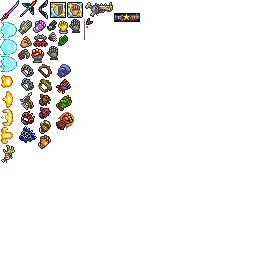
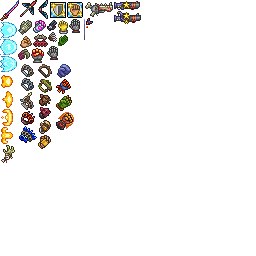
Add startillery

Changed region(s): [[0.4375, 0.0, 0.5625, 0.0938]]

diff --git a/Items/Weapons/Startillery.cs b/Items/Weapons/Startillery.cs
@@ -1,0 +1,78 @@
+using Microsoft.Xna.Framework;
+using Terraria;
+using Terraria.ID;
+using Terraria.ModLoader;
+using System;
+using System.Collections.Generic;
+
+namespace WeaponOut.Items.Weapons
+{
+    /// <summary>
+    /// Star cannon converion for the frugal
+    /// </summary>
+    public class Startillery : ModItem
+    {
+        public override bool Autoload(ref string name, ref string texture, IList<EquipType> equips)
+        {
+            return ModConf.enableBasicContent;
+        }
+
+        public const int penetrateBonus = 4;
+
+        public override void SetDefaults()
+        {
+            item.CloneDefaults(ItemID.StarCannon);
+            item.name = "Startillery";
+            item.damage = 250;
+            item.useTime = 80;
+            item.useAnimation = 81;
+            item.UseSound = SoundID.Item33;
+            item.shootSpeed += 10f;
+        }
+        public override void AddRecipes()
+        {
+            //Conversion to, should be expensive enough to dissuade replacement as reforging
+            ModRecipe recipe = new ModRecipe(mod);
+            recipe.AddIngredient(ItemID.StarCannon, 1);
+            recipe.AddIngredient(ItemID.IllegalGunParts, 1);
+            recipe.AddTile(TileID.Anvils);
+            recipe.SetResult(this);
+            recipe.AddRecipe();
+            //Conversion from
+            recipe = new ModRecipe(mod);
+            recipe.AddIngredient(this, 1);
+            recipe.AddIngredient(ItemID.FallenStar, 10);
+            recipe.AddTile(TileID.Anvils);
+            recipe.SetResult(ItemID.StarCannon);
+            recipe.AddRecipe();
+        }
+
+        public override bool Shoot(Player player, ref Vector2 position, ref float speedX, ref float speedY, ref int type, ref int damage, ref float knockBack)
+        {
+            position -= new Vector2(speedX * 2, speedY * 2);
+            return true;
+        }
+
+        public override void HoldItem(Player player)
+        {
+            foreach(Projectile p in Main.projectile)
+            {
+                if(p.active && p.owner == player.whoAmI && p.type == ProjectileID.FallingStar && p.damage > 150 && p.damage < 1000)
+                {
+                    Gore g = Main.gore[Gore.NewGore(p.position, new Vector2(p.velocity.X * 0.05f, p.velocity.Y * 0.05f), Main.rand.Next(16, 18), 1f)];
+                    g.velocity.Y += 2;
+                    for (int i = 0; i < 2; i++)
+                    {
+                        Dust d = Main.dust[Dust.NewDust(p.position, p.width, p.height, 57 + Main.rand.Next(2), p.velocity.X * 0.3f, p.velocity.Y * 0.3f, 150, default(Color), 1.2f)];
+                        d.velocity *= Main.rand.NextFloatDirection() * 0.5f;
+                    }
+                }
+            }
+        }
+
+        public override Vector2? HoldoutOffset()
+        {
+            return new Vector2(-4, 6);
+        }
+    }
+}
